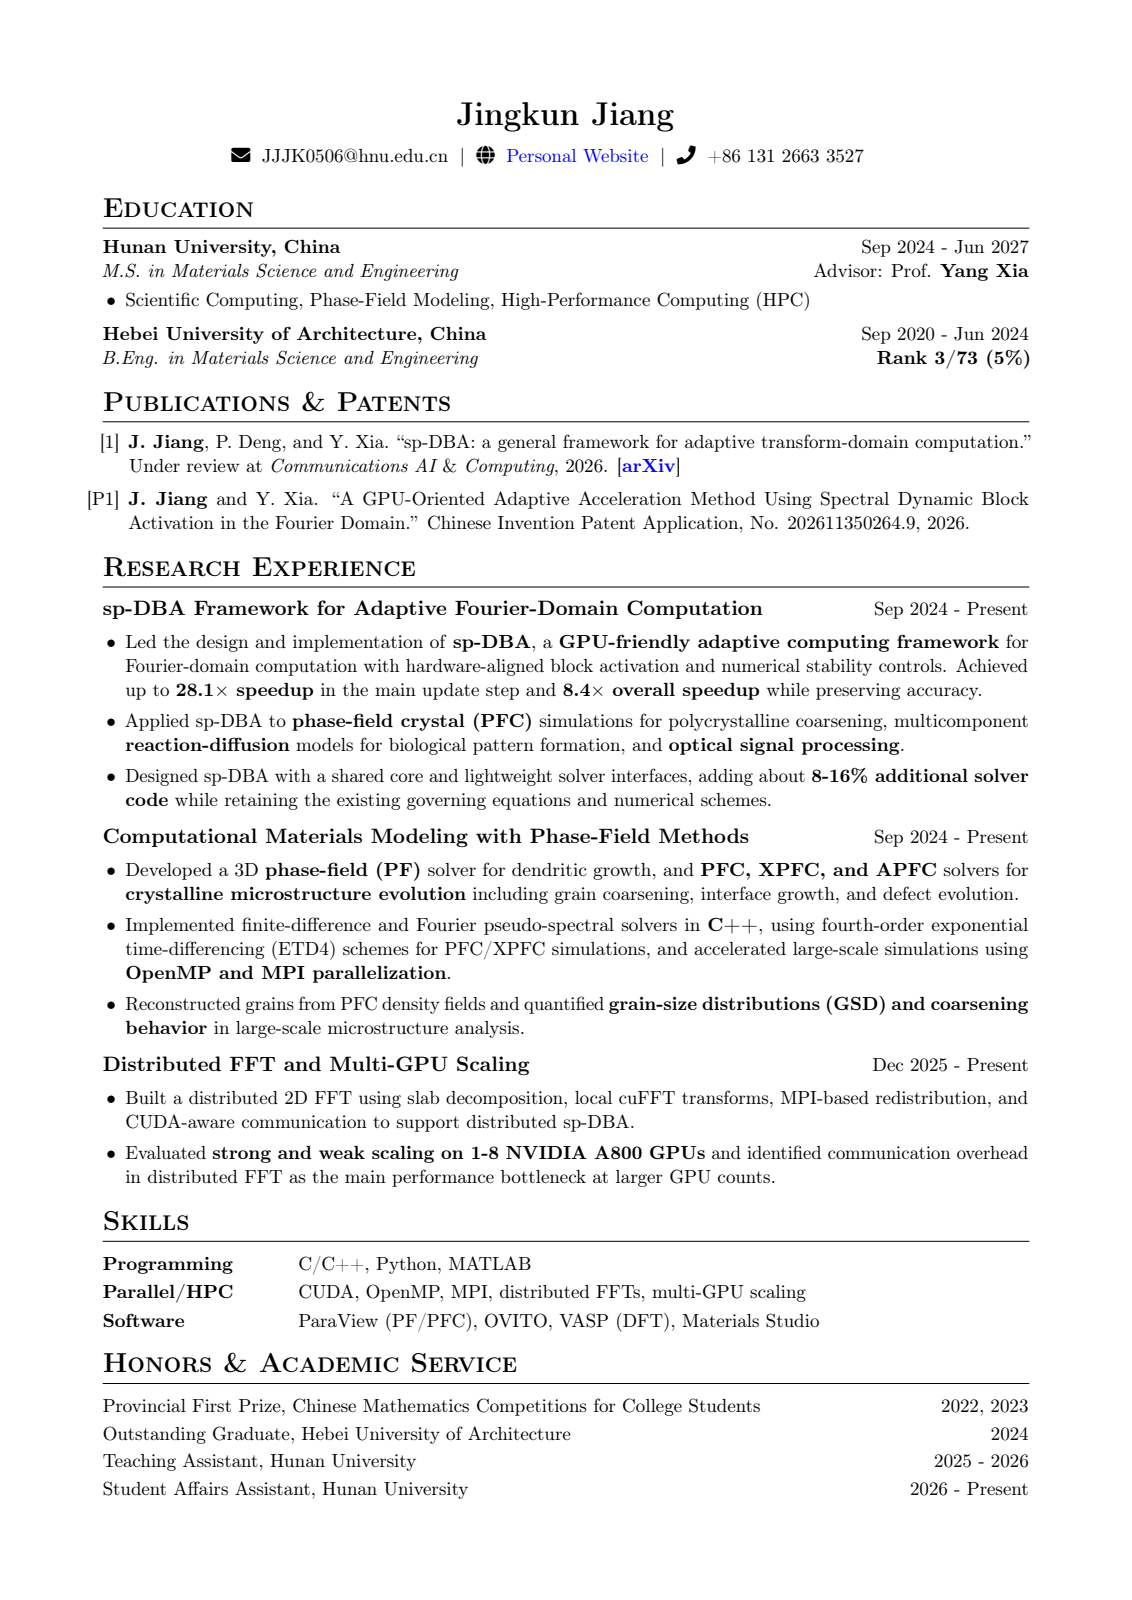
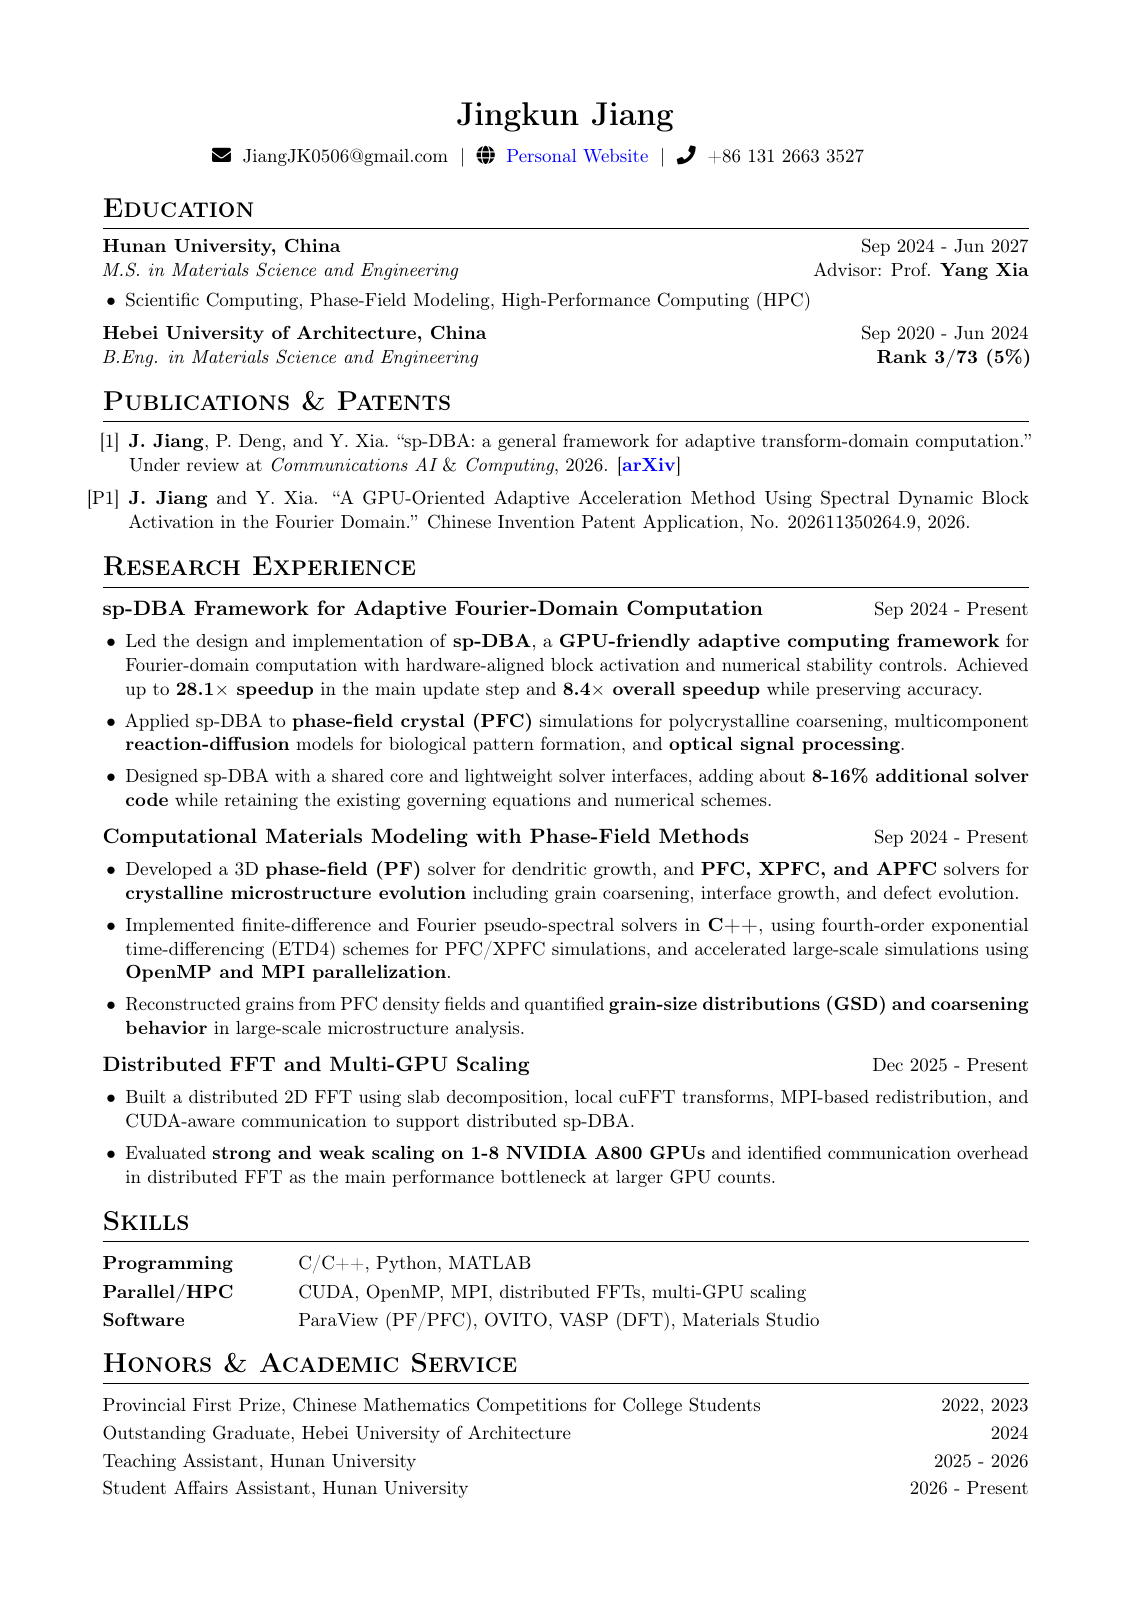
Update CV contact details and increase research right margin

diff --git a/cv/index.html b/cv/index.html
@@ -8,8 +8,8 @@
   <meta name="theme-color" content="#b31a1b">
   <title>CV | Jingkun Jiang</title>
   <link rel="preload" href="../assets/fonts/montserrat-latin-700-800.woff2" as="font" type="font/woff2" crossorigin>
-  <link rel="stylesheet" href="../assets/site.css?v=fluid-layout-34">
-  <script type="module" src="../assets/cv-viewer.js?v=fluid-layout-34"></script>
+  <link rel="stylesheet" href="../assets/site.css?v=contact-margin-35">
+  <script type="module" src="../assets/cv-viewer.js?v=contact-margin-35"></script>
 </head>
 <body>
 <a class="skip-link" href="#main">Skip to content</a>
@@ -18,8 +18,8 @@
   <nav class="desktop-nav" aria-label="Main navigation"><a href="../">Home</a><a href="../research/">Research</a><a href="../personal-statement/">Personal Statement</a><a href="../cv/" aria-current="page">CV</a></nav>
   <details class="mobile-menu"><summary><span class="menu-icon" aria-hidden="true">☰</span> Menu</summary><nav aria-label="Mobile navigation"><a href="../">Home</a><a href="../research/">Research</a><a href="../personal-statement/">Personal Statement</a><a href="../cv/" aria-current="page">CV</a></nav></details>
 </div></header>
-<main id="main" class="cv-main"><header class="page-heading cv-heading"><div><h1>Curriculum Vitae</h1></div><a class="download-link" href="../assets/cv/Jingkun_Jiang_CV.pdf?v=research-equations-24" download="Jingkun_Jiang_CV.pdf">Download PDF <span aria-hidden="true">↓</span></a></header>
-  <section id="pdf-viewer" class="pdf-viewer" aria-label="CV PDF reader"><div class="pdf-toolbar"><span id="page-count">Page 1</span><div class="zoom-controls"><button type="button" id="zoom-out" aria-label="Zoom out" disabled>−</button><output id="zoom-value" aria-label="Current zoom">Fit</output><button type="button" id="zoom-in" aria-label="Zoom in" disabled>+</button><button type="button" id="fit-width" disabled>Fit width</button></div></div><p id="pdf-status" role="status">Loading PDF…</p><div id="pdf-scroll" tabindex="0" aria-label="PDF document, scroll to read"><div id="pdf-page"><canvas id="cv-canvas" role="img" aria-label="Jingkun Jiang's curriculum vitae, page 1" hidden></canvas><div id="cv-text-layer" class="textLayer"></div><img id="cv-preview" src="../pictures/cv/preview.png?v=research-equations-24" width="1132" height="1600" alt="Jingkun Jiang's curriculum vitae. A PDF download is available above."></div></div><noscript><style>#pdf-status,.zoom-controls{display:none}</style><p class="pdf-noscript">The CV preview is shown above. You can also use Download PDF.</p></noscript></section>
+<main id="main" class="cv-main"><header class="page-heading cv-heading"><div><h1>Curriculum Vitae</h1></div><a class="download-link" href="../assets/cv/Jingkun_Jiang_CV.pdf?v=contact-35" download="Jingkun_Jiang_CV.pdf">Download PDF <span aria-hidden="true">↓</span></a></header>
+  <section id="pdf-viewer" class="pdf-viewer" aria-label="CV PDF reader"><div class="pdf-toolbar"><span id="page-count">Page 1</span><div class="zoom-controls"><button type="button" id="zoom-out" aria-label="Zoom out" disabled>−</button><output id="zoom-value" aria-label="Current zoom">Fit</output><button type="button" id="zoom-in" aria-label="Zoom in" disabled>+</button><button type="button" id="fit-width" disabled>Fit width</button></div></div><p id="pdf-status" role="status">Loading PDF…</p><div id="pdf-scroll" tabindex="0" aria-label="PDF document, scroll to read"><div id="pdf-page"><canvas id="cv-canvas" role="img" aria-label="Jingkun Jiang's curriculum vitae, page 1" hidden></canvas><div id="cv-text-layer" class="textLayer"></div><img id="cv-preview" src="../pictures/cv/preview.png?v=contact-35" width="1132" height="1600" alt="Jingkun Jiang's curriculum vitae. A PDF download is available above."></div></div><noscript><style>#pdf-status,.zoom-controls{display:none}</style><p class="pdf-noscript">The CV preview is shown above. You can also use Download PDF.</p></noscript></section>
 </main>
 </body>
 </html>

diff --git a/index.html b/index.html
@@ -8,7 +8,7 @@
   <meta name="theme-color" content="#b31a1b">
   <title>Jingkun Jiang | Computational Materials</title>
   <link rel="preload" href="assets/fonts/montserrat-latin-700-800.woff2" as="font" type="font/woff2" crossorigin>
-  <link rel="stylesheet" href="assets/site.css?v=fluid-layout-34">
+  <link rel="stylesheet" href="assets/site.css?v=contact-margin-35">
   
 </head>
 <body>
@@ -34,7 +34,7 @@
     <h2 id="interests-title">Research interests</h2>
     <ul class="interest-list"><li>Scientific Computing</li><li>Phase-Field Modeling</li><li>High-Performance Computing (HPC)</li><li>Adaptive Computing</li></ul>
   </section>
-  <div class="inline-links about-links"><a href="research/">Research <span aria-hidden="true">→</span></a><a href="cv/">View CV <span aria-hidden="true">→</span></a><a href="mailto:JJJK0506@hnu.edu.cn">Email <span aria-hidden="true">→</span></a></div>
+  <div class="inline-links about-links"><a href="research/">Research <span aria-hidden="true">→</span></a><a href="cv/">View CV <span aria-hidden="true">→</span></a><a href="mailto:JiangJK0506@gmail.com">Email <span aria-hidden="true">→</span></a></div>
   <template id="beyond-research-hidden">
   <section class="about-personal" aria-labelledby="personal-title">
     <h2 id="personal-title">Beyond research</h2>

diff --git a/research/index.html b/research/index.html
@@ -8,8 +8,8 @@
   <meta name="theme-color" content="#b31a1b">
   <title>Research | Jingkun Jiang</title>
   <link rel="preload" href="../assets/fonts/montserrat-latin-700-800.woff2" as="font" type="font/woff2" crossorigin>
-  <link rel="stylesheet" href="../assets/site.css?v=fluid-layout-34">
-  <script type="module" src="../assets/research-nav.js?v=fluid-layout-34"></script>
+  <link rel="stylesheet" href="../assets/site.css?v=contact-margin-35">
+  <script type="module" src="../assets/research-nav.js?v=contact-margin-35"></script>
 </head>
 <body>
 <a class="skip-link" href="#main">Skip to content</a>

diff --git a/assets/site.css b/assets/site.css
@@ -307,6 +307,7 @@ figcaption { font-size: 14px; color: var(--muted); line-height: 1.65; margin: 12
 .textLayer ::selection { background: #246c9c40; }
 .textLayer br::selection { background: transparent; }
 @media (min-width: 1000px) {
+  .header-inner, .single-research { padding-right: 88px; }
   .single-research { display: grid; grid-template-columns: 168px minmax(0,1fr); column-gap: 40px; max-width: var(--site-width); }
   .single-research > .research-page-heading { grid-column: 2; grid-row: 1; }
   .research-content { grid-column: 2; grid-row: 2; }

diff --git a/research/grain-analysis/index.html b/research/grain-analysis/index.html
@@ -8,7 +8,7 @@
   <meta name="theme-color" content="#b31a1b">
   <title>From density fields to grain statistics | Jingkun Jiang</title>
   <link rel="preload" href="../../assets/fonts/montserrat-latin-700-800.woff2" as="font" type="font/woff2" crossorigin>
-  <link rel="stylesheet" href="../../assets/site.css?v=fluid-layout-34">
+  <link rel="stylesheet" href="../../assets/site.css?v=contact-margin-35">
 </head>
 <body>
 <a class="skip-link" href="#main">Skip to content</a>

diff --git a/research/apfc/index.html b/research/apfc/index.html
@@ -8,7 +8,7 @@
   <meta name="theme-color" content="#b31a1b">
   <title>APFC · Looking beyond density | Jingkun Jiang</title>
   <link rel="preload" href="../../assets/fonts/montserrat-latin-700-800.woff2" as="font" type="font/woff2" crossorigin>
-  <link rel="stylesheet" href="../../assets/site.css?v=fluid-layout-34">
+  <link rel="stylesheet" href="../../assets/site.css?v=contact-margin-35">
 </head>
 <body>
 <a class="skip-link" href="#main">Skip to content</a>

diff --git a/research/thresholds/index.html b/research/thresholds/index.html
@@ -8,7 +8,7 @@
   <meta name="theme-color" content="#b31a1b">
   <title>From thresholds to a framework | Jingkun Jiang</title>
   <link rel="preload" href="../../assets/fonts/montserrat-latin-700-800.woff2" as="font" type="font/woff2" crossorigin>
-  <link rel="stylesheet" href="../../assets/site.css?v=fluid-layout-34">
+  <link rel="stylesheet" href="../../assets/site.css?v=contact-margin-35">
 </head>
 <body>
 <a class="skip-link" href="#main">Skip to content</a>

diff --git a/research/xpfc/index.html b/research/xpfc/index.html
@@ -8,7 +8,7 @@
   <meta name="theme-color" content="#b31a1b">
   <title>XPFC · Real and Fourier space | Jingkun Jiang</title>
   <link rel="preload" href="../../assets/fonts/montserrat-latin-700-800.woff2" as="font" type="font/woff2" crossorigin>
-  <link rel="stylesheet" href="../../assets/site.css?v=fluid-layout-34">
+  <link rel="stylesheet" href="../../assets/site.css?v=contact-margin-35">
 </head>
 <body>
 <a class="skip-link" href="#main">Skip to content</a>

diff --git a/research/fft/index.html b/research/fft/index.html
@@ -8,7 +8,7 @@
   <meta name="theme-color" content="#b31a1b">
   <title>FFT kernel development | Jingkun Jiang</title>
   <link rel="preload" href="../../assets/fonts/montserrat-latin-700-800.woff2" as="font" type="font/woff2" crossorigin>
-  <link rel="stylesheet" href="../../assets/site.css?v=fluid-layout-34">
+  <link rel="stylesheet" href="../../assets/site.css?v=contact-margin-35">
 </head>
 <body>
 <a class="skip-link" href="#main">Skip to content</a>

diff --git a/research/pf/index.html b/research/pf/index.html
@@ -8,7 +8,7 @@
   <meta name="theme-color" content="#b31a1b">
   <title>PF · Dendritic growth | Jingkun Jiang</title>
   <link rel="preload" href="../../assets/fonts/montserrat-latin-700-800.woff2" as="font" type="font/woff2" crossorigin>
-  <link rel="stylesheet" href="../../assets/site.css?v=fluid-layout-34">
+  <link rel="stylesheet" href="../../assets/site.css?v=contact-margin-35">
 </head>
 <body>
 <a class="skip-link" href="#main">Skip to content</a>

diff --git a/research/submission-history/index.html b/research/submission-history/index.html
@@ -8,7 +8,7 @@
   <meta name="theme-color" content="#b31a1b">
   <title>Submission history | Jingkun Jiang</title>
   <link rel="preload" href="../../assets/fonts/montserrat-latin-700-800.woff2" as="font" type="font/woff2" crossorigin>
-  <link rel="stylesheet" href="../../assets/site.css?v=fluid-layout-34">
+  <link rel="stylesheet" href="../../assets/site.css?v=contact-margin-35">
 </head>
 <body>
 <a class="skip-link" href="#main">Skip to content</a>

diff --git a/research/distributed-fft/index.html b/research/distributed-fft/index.html
@@ -8,7 +8,7 @@
   <meta name="theme-color" content="#b31a1b">
   <title>Distributed FFTs | Jingkun Jiang</title>
   <link rel="preload" href="../../assets/fonts/montserrat-latin-700-800.woff2" as="font" type="font/woff2" crossorigin>
-  <link rel="stylesheet" href="../../assets/site.css?v=fluid-layout-34">
+  <link rel="stylesheet" href="../../assets/site.css?v=contact-margin-35">
 </head>
 <body>
 <a class="skip-link" href="#main">Skip to content</a>
